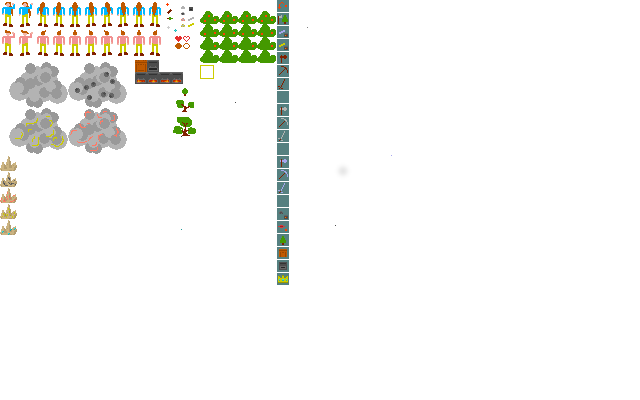
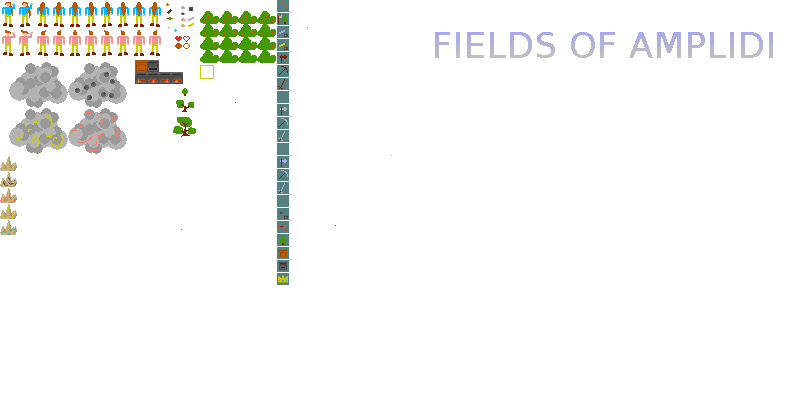
Add title heading gfx.

Changed region(s): [[0.0, 0.0, 0.4688, 0.72], [0.5312, 0.06, 0.9688, 0.15], [0.0, 0.39, 0.0312, 0.6]]

diff --git a/main/ld45/sprite_mapping.go b/main/ld45/sprite_mapping.go
@@ -396,5 +396,11 @@ func createSpriteMapping() map[string]ui.Sprite {
 			Width:  20,
 			Height: 15,
 		},
+		"title_screen_title": ui.Sprite{
+			X:      435,
+			Y:      32,
+			Width:  339,
+			Height: 27,
+		},
 	}
 }
